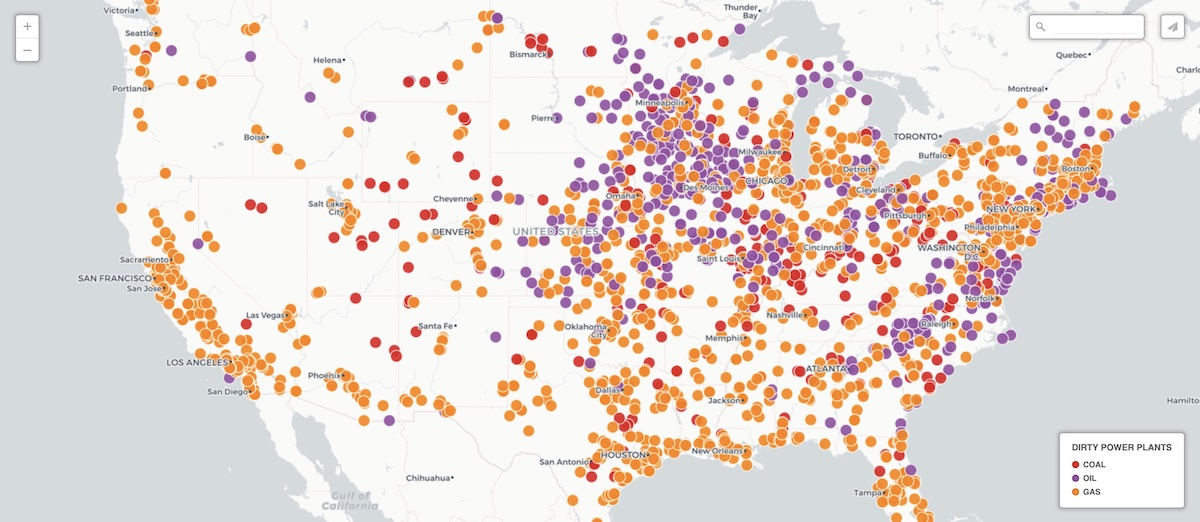
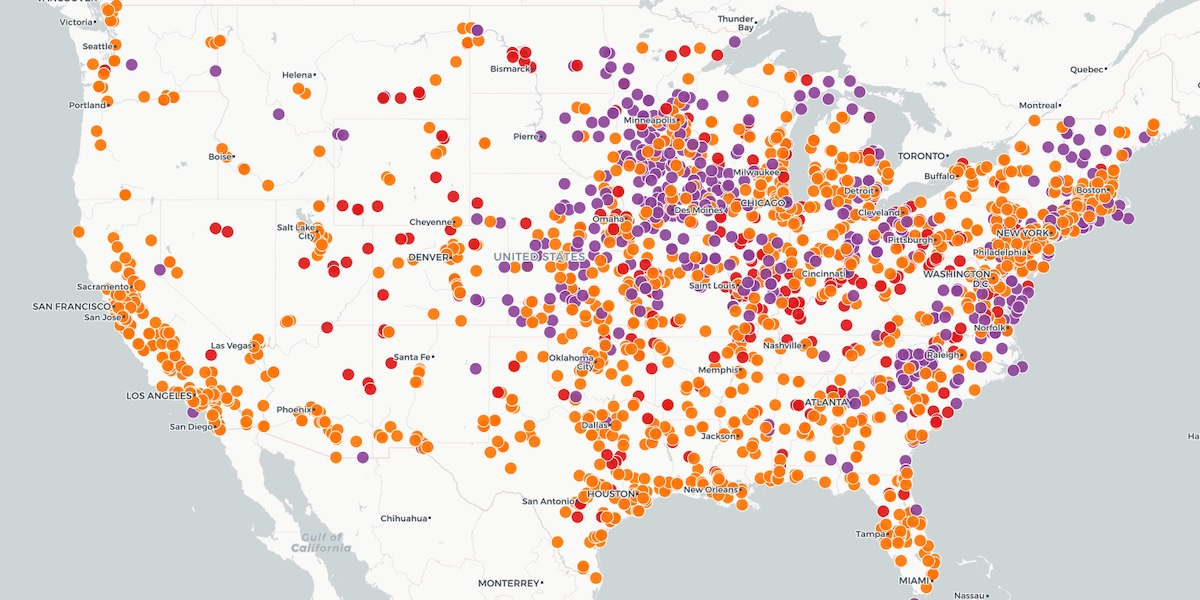
address accessibility issues

diff --git a/src/components/state-details.js b/src/components/state-details.js
@@ -580,16 +580,12 @@ export default function StateDetailsPage ({ location, data }) {
 
               <div className="card">
                 <div className="card-body">
-                  <h5 class="card-title">
-                    <a href="https://bit.ly/dirty-power-plants-usa" target="_blank" rel="noreferrer">
-                      See a map of dirty power plants in the US
-                    </a>
-                  </h5>
                   <a href="https://bit.ly/dirty-power-plants-usa" target="_blank" rel="noreferrer">
+                    <p className="h5" style={{display: 'block'}}>See a map of dirty power plants in the US</p>
                     <img
                       className="img-fluid"
                       src={PowerPlantMap}
-                      alt="Map showing coal, gas and oil power plants in the United States"
+                      alt=""
                     />
                   </a>
                 </div>
